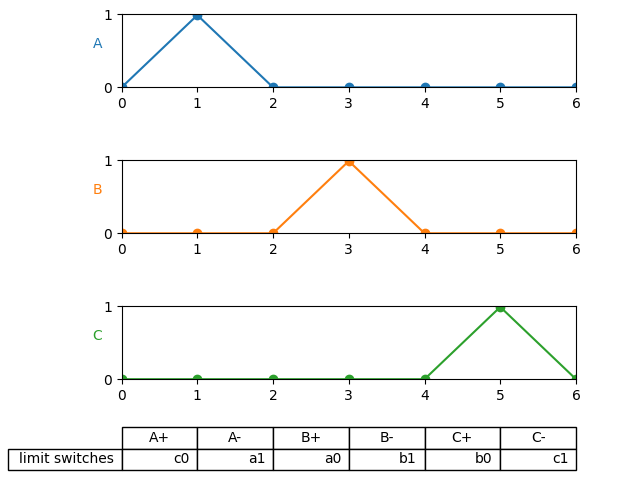
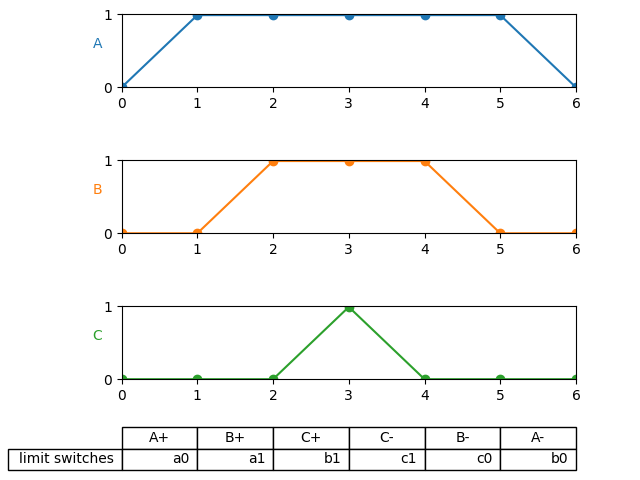
fixed issues

diff --git a/Project Fluidsim/fluid.py b/Project Fluidsim/fluid.py
@@ -68,59 +68,44 @@ class plc():
         dir = os.path.dirname('plc_txt') + 'plc.txt'
         with open(dir,'w') as f:
             #relays variables ----------------------------------------------------
-            f.write('PROGRAM FluidsimSequence\n')
+            f.write('PROGRAM PLC_PRG\n')
             f.write('VAR\n')
             for i in range(num_mem):
-                f.write(f'#{relay_k_name[i]} AT %Q : BOOL;\n')
+                f.write(f'\t{relay_k_name[i]} AT %Q* : BOOL;\n')
             #solenoids variables -------------------------------------------------
             for i in range(l):
-                f.write(f'#{solenoids[i]} AT %Q* : BOOL;\n')
+                f.write(f'\t{solenoids[i]} AT %Q* : BOOL;\n')
             #limit switches variables --------------------------------------------
             for i in range(l):
-                f.write(f'#{limit_switch_list[i]} AT %I* : BOOL;\n')
+                f.write(f'\t{limit_switch_list[i]} AT %I* : BOOL;\n')
             f.write('END_VAR\n')
             f.write('\n//-----------------------------------------------------\n')
             f.write('// -----VARIABLES-----\n')
-            f.write('// -----RELAY MEMORIES-----\n')
+            f.write('\nSTART : BOOL;\n')
+            f.write('// -----RELAY MEMORIES-----\n\n')
             for i in range(num_mem):
-                f.write(f'#{relay_k_name[i]} := FALSE;\n')
-            f.write('// -----SOLENOIDS-----\n')
+                f.write(f'{relay_k_name[i]} := FALSE;\n')
+            f.write('// -----SOLENOIDS-----\n\n')
             for i in range(l):
-                f.write(f'#{solenoids[i]} := FALSE;\n')
+                f.write(f'{solenoids[i]} := FALSE;\n')
             limit_switch_list_bool = algorithm_limit_switches(limit_switch_list, sequence_list)
-            f.write('// -----LIMIT SWITCHES-----\n')
+            f.write('// -----LIMIT SWITCHES-----\n\n')
             for i in range(l):
-                f.write(f'#{limit_switch_list[i]} := {limit_switch_list_bool[i]};\n')
+                f.write(f'{limit_switch_list[i]} := {limit_switch_list_bool[i]};\n')
             f.write('\n//-----------------------------------------------------\n')
-            f.write('// -----CONDITIONS-----\n')
+            '''f.write('// -----CONDITIONS-----\n')
             for j in range(num_mem):
                 #first conditions for the first relay
                 #activation switch
-                f.write(f'\nIF #{relay_memories[j][0]} = True THEN\n\t')
-                f.write(f'#{relay_k_name[j]} := TRUE;\n')
+                f.write(f'\nIF {relay_memories[j][0]} = True THEN\n\t')
+                f.write(f'{relay_k_name[j]} := TRUE;\n')
                 f.write('END_IF;\n')
                 #deactivation switch
-                f.write(f'\nIF #{relay_memories[j][1]} = True THEN\n\t')
-                f.write(f'#{relay_k_name[j]} := FALSE;\n')
+                f.write(f'\nIF {relay_memories[j][1]} = True THEN\n\t')
+                f.write(f'{relay_k_name[j]} := FALSE;\n')
                 f.write('END_IF;\n')
                 #------------------------------------
-            #first relay-------------------------------------
-            f.write(f'\nIF #{relay_k_name[0]} = True THEN\n')
-            if merge__ == True:
-                merged_groups = []
-                merged_groups = groups[0] + groups[-1]
-                for k in range(len(groups[0]) + len(groups[-1])):
-                    f.write(f'\t#{merged_groups[k]} := FALSE;\n')
-                f.write('END_IF;\n')
-            elif merge__ == False:
-                for k in range(len(groups[0])):
-                    f.write(f'\t#{groups[0][k]} := FALSE;\n')
-                f.write('END_IF;\n')
-            f.write(f'\nIF #{relay_k_name[0]} = False THEN\n')
-            for k in range(len(groups[1])):
-                f.write(f'\t#{groups[1][k]} := FALSE;\n')
-            f.write('END_IF;\n')
-
+'''
             #update data table with global variables
             global groups_global, relay_k_name_global, relay_memories_global, limit_switch_list_bool_global, limit_switch_list_global
             groups_global = groups
@@ -131,12 +116,12 @@ class plc():
 
             #------------------------------------------------
             #next relays-------------------------------------
-            for j in range(1, num_mem):
-                f.write(f'IF #{relay_k_name[j]} = False THEN\n')
+            '''for j in range(1, num_mem):
+                f.write(f'IF {relay_k_name[j]} = False THEN\n')
                 for k in range(len(groups[j+1])):
-                    f.write(f'\t#{groups[j+1][k]} := FALSE;\n')
+                    f.write(f'\t{groups[j+1][k]} := FALSE;\n')
                 f.write('END_IF;\n')
-
+'''
             #------------------------------------------------
             #conditions for the circuit to start and activate the first solenoid
             # we need to have the limit_switches sequence list shifted by one element
@@ -147,134 +132,187 @@ class plc():
             #------------------------------------------------------------------------
             #---------------FIRST GROUP-----------------------
             #------------------START--------------------------
-            f.write(f'IF #START = True AND #{limit_switch_list[-1]} = True AND #{relay_k_name[0]} = False ')
+            f.write('\nWHILE START = True DO\n')
+            f.write(f'IF START = True AND {limit_switch_list[-1]} = True AND {relay_k_name[0]} = False ')
             for i in range(1, num_mem):
-                f.write(f'AND #{relay_k_name[i]} = False ')
+                f.write(f'AND {relay_k_name[i]} = False ')
             f.write('THEN\n\t')
-            f.write(f'#{solenoids[0]} := TRUE;\n\t')
-            f.write(f'IF #{solenoids[0]} = True THEN\n\t\t')
+            f.write(f'{solenoids[0]} := TRUE;\n\t')
+            f.write(f'IF {solenoids[0]} = True THEN\n\t\t')
             #if group 0 ins't just one stroke then
             if len(groups[0]) > 1:
-                f.write(f'#{limit_switch_list[0]} := TRUE;\n\t')
                 convert_on_off = limit_switch_list[0][0]
                 for on_off in range(1,len(limit_switch_list)):
                     if convert_on_off == limit_switch_list[on_off][0]:
-                        f.write(f'\t#{limit_switch_list[on_off]} := FALSE;\n\t')
+                        f.write(f'{limit_switch_list[on_off]} := FALSE;\n\t')
                         break
                     else:
                         continue
+                f.write(f'\t{limit_switch_list[0]} := TRUE;\n\t')
                 f.write('END_IF;\n\t')
                 finish_group = 1
                 _index_ = 1
                 while finish_group < len(groups[0]):
-                    f.write(f'IF #{limit_switch_list[_index_ - 1]} = True THEN\n\t\t')
-                    f.write(f'#{solenoids[_index_]} := TRUE;\n\t')
+                    f.write(f'IF {limit_switch_list[_index_ - 1]} = True THEN\n\t\t')
+                    f.write(f'{solenoids[_index_]} := TRUE;\n\t')
                     f.write('END_IF;\n\t')
-                    f.write(f'IF #{solenoids[_index_]} = True THEN\n\t\t')
-                    f.write(f'#{limit_switch_list[_index_]} := TRUE;\n\t')
+                    f.write(f'IF {solenoids[_index_]} = True THEN\n\t\t')
                     convert_on_off = limit_switch_list[_index_][0]
                     for on_off in range(_index_ + 1,len(limit_switch_list)):
                         if convert_on_off == limit_switch_list[on_off][0]:
-                            f.write(f'\t#{limit_switch_list[on_off]} := FALSE;\n\t')
+                            f.write(f'{limit_switch_list[on_off]} := FALSE;\n\t')
                             break
                         else:
                             continue
+                    f.write(f'\t{limit_switch_list[_index_]} := TRUE;\n\t')
                     f.write('END_IF;\n\t')
                     _index_ += 1
                     finish_group += 1
                 f.write('\nEND_IF;\n')
             else:
                 _index_ = 0
-                f.write(f'#{limit_switch_list[_index_]} := TRUE;\n\t')
                 convert_on_off = limit_switch_list[_index_][0]
                 for on_off in range(1,len(limit_switch_list)):
                     if convert_on_off == limit_switch_list[on_off][0]:
-                        f.write(f'\t#{limit_switch_list[on_off]} := FALSE;\n\t')
+                        f.write(f'{limit_switch_list[on_off]} := FALSE;\n\t')
                         break
                     else:
                         continue
+                f.write(f'\t{limit_switch_list[_index_]} := TRUE;\n\t')
                 f.write('END_IF;\nEND_IF;\n')
                 _index_ += 1
+            f.write(f'\nIF {relay_memories[0][0]} = True THEN\n\t')
+            f.write(f'{relay_k_name[0]} := TRUE;\n')
+            f.write('END_IF;\n')
+
+            #first relay-------------------------------------
+            f.write(f'\nIF {relay_k_name[0]} = True THEN\n')
+            if merge__ == True:
+                merged_groups = []
+                merged_groups = groups[0] + groups[-1]
+                for k in range(len(groups[0]) + len(groups[-1])):
+                    f.write(f'\t{merged_groups[k]} := FALSE;\n')
+                f.write('END_IF;\n\n')
+            elif merge__ == False:
+                for k in range(len(groups[0])):
+                    f.write(f'\t{groups[0][k]} := FALSE;\n')
+                f.write('END_IF;\n\n')
+
+            #------------NEXT GROUPS-------------------------
             for j in range(num_mem):
                 finish_group = 0
-                f.write(f'IF #{limit_switch_list[_index_ - 1]} = True AND #{relay_k_name[j]} = True THEN\n')
+                if j > 0:
+                    #activation switch
+                    f.write(f'\nIF {relay_memories[j][0]} = True THEN\n\t')
+                    f.write(f'{relay_k_name[j]} := TRUE;\n')
+                    f.write('END_IF;\n\n')
+
+                f.write(f'IF {limit_switch_list[_index_ - 1]} = True AND {relay_k_name[j]} = True THEN\n')
                 while finish_group < len(groups[j + 1]):
-                    f.write(f'\t#{solenoids[_index_]} := TRUE;\n')
+
+                    f.write(f'\t{solenoids[_index_]} := TRUE;\n')
                     if finish_group != 0:
                         f.write('\tEND_IF;\n')
-                    f.write(f'\tIF #{solenoids[_index_]} = True THEN\n\t')
-                    f.write(f'\t#{limit_switch_list[_index_]} := TRUE;\n')
+                    f.write(f'\tIF {solenoids[_index_]} = True THEN\n\t')
                     convert_on_off = limit_switch_list[_index_][0]
                     for on_off in range(_index_ + 1,len(limit_switch_list)):
                         if convert_on_off == limit_switch_list[on_off][0]:
-                            f.write(f'\t\t#{limit_switch_list[on_off]} := FALSE;\n')
+                            f.write(f'\t{limit_switch_list[on_off]} := FALSE;\n')
                             break
                         else:
                             continue
+                    for on_off in range(_index_):
+                            if convert_on_off == limit_switch_list[on_off][0]:
+                                f.write(f'\t{limit_switch_list[on_off]} := FALSE;\n')
+                                break
+                            else:
+                                continue
+                    f.write(f'\t\t{limit_switch_list[_index_]} := TRUE;\n')
                     if loop == True and limit_switch_list[on_off][0] != limit_switch_list[loop_index][0]:
                         for on_off in range(_index_):
                             if convert_on_off == limit_switch_list[on_off][0]:
-                                f.write(f'\t\t#{limit_switch_list[on_off]} := FALSE;\n')
+                                f.write(f'\t{limit_switch_list[on_off]} := FALSE;\n')
                                 break
                             else:
                                 continue
                     f.write('\tEND_IF;\n')
                     if finish_group != (len(groups[j+1]) - 1):
-                        f.write(f'\tIF #{limit_switch_list[_index_]} = True THEN\n\t')
+                        f.write(f'\tIF {limit_switch_list[_index_]} = True THEN\n\t')
                     _index_ += 1
                     finish_group += 1
                 f.write('END_IF;\n')
+                if j == 0:
+                    f.write(f'\nIF {relay_memories[j][1]} = True THEN\n\t')
+                    f.write(f'{relay_k_name[j]} := FALSE;\n')
+                    f.write('END_IF;\n')
+
+                    f.write(f'\nIF {relay_k_name[0]} = False THEN\n')
+                    for k in range(len(groups[1])):
+                        f.write(f'\t{groups[1][k]} := FALSE;\n')
+                    f.write('END_IF;\n')
+                elif j > 0:
+                    #deactivation switch
+                    f.write(f'\nIF {relay_memories[j][1]} = True THEN\n\t')
+                    f.write(f'{relay_k_name[j]} := FALSE;\n')
+                    f.write('END_IF;\n')
+
+                    f.write(f'\nIF {relay_k_name[j]} = False THEN\n')
+                    for k in range(len(groups[1])):
+                        f.write(f'\t{groups[1][k]} := FALSE;\n')
+                    f.write('END_IF;\n\n')
+                #------------------------------------
             if merge__ == True:
-                f.write(f'IF #{limit_switch_list[_index_ - 1]} = True AND #{relay_k_name[0]} = False ')
+                f.write(f'IF {limit_switch_list[_index_ - 1]} = True AND {relay_k_name[0]} = False ')
                 if len(groups[-1]) > 1:
                     for i in range(1, num_mem):
-                        f.write(f'AND #{relay_k_name[i]} = False ')
+                        f.write(f'AND {relay_k_name[i]} = False ')
                     f.write('THEN\n')
                     finish_group = 0
                     while finish_group < len(groups[-1]):
-                        f.write(f'\t#{solenoids[_index_]} := TRUE;\n')
-                        f.write(f'\tIF #{solenoids[_index_]} = True THEN\n\t')
-                        f.write(f'\t#{limit_switch_list[_index_]} := TRUE;\n')
+                        f.write(f'\t{solenoids[_index_]} := TRUE;\n')
+                        f.write(f'\tIF {solenoids[_index_]} = True THEN\n\t')
                         convert_on_off = limit_switch_list[_index_][0]
                         for on_off in range(_index_ + 1,len(limit_switch_list)):
                             if convert_on_off == limit_switch_list[on_off][0]:
-                                f.write(f'\t\t#{limit_switch_list[on_off]} := FALSE;\n')
+                                f.write(f'\t{limit_switch_list[on_off]} := FALSE;\n')
                                 break
                             else:
                                 continue
                         for on_off in range(_index_):
                             if convert_on_off == limit_switch_list[on_off][0]:
-                                f.write(f'\t\t#{limit_switch_list[on_off]} := FALSE;\n')
+                                f.write(f'\t{limit_switch_list[on_off]} := FALSE;\n')
                                 break
                             else:
                                 continue
+                        f.write(f'\t\t{limit_switch_list[_index_]} := TRUE;\n')
                         f.write('\tEND_IF;\n')
                         if finish_group != (len(groups[-1]) - 1):
-                            f.write(f'\tIF #{limit_switch_list[_index_]} = True THEN\n\t')
+                            f.write(f'\tIF {limit_switch_list[_index_]} = True THEN\n\t')
                         _index_ += 1
                         finish_group += 1
                     f.write('END_IF;\n')
                 else:
                     for i in range(1, num_mem):
-                        f.write(f'AND #{relay_k_name[i]} = False ')
+                        f.write(f'AND {relay_k_name[i]} = False ')
                     f.write('THEN\n')
-                    f.write(f'\t#{solenoids[_index_]} := TRUE;\n')
-                    f.write(f'\tIF #{solenoids[_index_]} = True THEN\n\t\t')
-                    f.write(f'#{limit_switch_list[_index_]} := TRUE;\n\t')
+                    f.write(f'\t{solenoids[_index_]} := TRUE;\n')
+                    f.write(f'\tIF {solenoids[_index_]} = True THEN\n\t\t')
                     convert_on_off = limit_switch_list[_index_][0]
                     for on_off in range(_index_ + 1,len(limit_switch_list)):
                         if convert_on_off == limit_switch_list[on_off][0]:
-                            f.write(f'\t#{limit_switch_list[on_off]} := FALSE;\n\t')
+                            f.write(f'{limit_switch_list[on_off]} := FALSE;\n\t\t')
                             break
                         else:
                             continue
                     for on_off in range(_index_):
                         if convert_on_off == limit_switch_list[on_off][0]:
-                            f.write(f'\t#{limit_switch_list[on_off]} := FALSE;\n\t')
+                            f.write(f'{limit_switch_list[on_off]} := FALSE;\n\t\t')
                             break
                         else:
                             continue
+                    f.write(f'{limit_switch_list[_index_]} := TRUE;\n\t')
                     f.write('END_IF;\nEND_IF;\n')
+            f.write('END_WHILE\n')
             f.close()
             return groups_global, relay_k_name_global, relay_memories_global, limit_switch_list_bool_global, limit_switch_list_global
 
